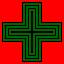
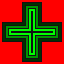
SHADER PHARMA

Changed region(s): [[0.0312, 0.0312, 0.9688, 0.9688]]

diff --git a/src/graphical_object.rs b/src/graphical_object.rs
@@ -1,3 +1,5 @@
+use std::time::{SystemTime, Duration};
+
 use miniquad::{
     Bindings, Buffer, BufferLayout, BufferType, Context, Pipeline, Shader, Texture,
     VertexAttribute, VertexFormat, TextureParams, ShaderMeta, UniformBlockLayout, UniformDesc, UniformType,
@@ -22,6 +24,7 @@ pub struct GraphicalObject {
     y_offset: f32,
     bindings: Bindings,
     pipeline: Pipeline,
+    time: SystemTime
 }
 impl GraphicalObject {
     pub fn rotate(&mut self, ctx: &mut Context, rotation: ROTATION)
@@ -32,6 +35,8 @@ impl GraphicalObject {
     }
 
     pub fn draw(&mut self, ctx: &mut Context, x: f32, y: f32) {
+        let delta = self.time.elapsed().unwrap_or(Duration::from_secs(0)).as_secs_f32() % 2.;
+        let ratio = delta/2.;
         ctx.apply_pipeline(&self.pipeline);
         ctx.apply_bindings(&self.bindings);
         ctx.apply_uniforms(&Uniforms {
@@ -39,11 +44,12 @@ impl GraphicalObject {
                 self.x_offset + (2. * x / (SCREEN_WIDTH/self.width)) - 1.,
                 self.y_offset + (2. * y / (SCREEN_HEIGHT/self.height)) - 1.,
             ),
+            time: ratio
         });
         ctx.draw(0, 6, 1);
     }
 
-    pub(crate) fn new(ctx: &mut Context, file: &[u8]) -> GraphicalObject 
+    pub(crate) fn new(ctx: &mut Context, file: &[u8], body: bool) -> GraphicalObject 
     { 
         let file = Decoder::new(file);
         let res = file.decode().unwrap();
@@ -60,6 +66,7 @@ impl GraphicalObject {
 
         let x_offset = widhtf / SCREEN_WIDTH;
         let y_offset = heightf / SCREEN_HEIGHT;
+        let now = SystemTime::now();
 
         GraphicalObject {
             width: widhtf,
@@ -67,7 +74,8 @@ impl GraphicalObject {
             x_offset,
             y_offset,
             bindings: init_bindings(ctx, data, width, height),
-            pipeline: init_pipeline(ctx)
+            pipeline: init_pipeline(ctx, body),
+            time: now
         }
     }       
 }
@@ -98,9 +106,14 @@ fn init_bindings(ctx: &mut Context, data: &[u8], width: u16, height: u16) -> Bin
     }
 }
 
-fn init_pipeline(ctx: &mut Context) -> Pipeline {    
+fn init_pipeline(ctx: &mut Context, body: bool) -> Pipeline {    
     let vertex_shader:&str = std::str::from_utf8(include_bytes!("./shaders/shader.vs")).unwrap();
-    let fragment_shader:&str = std::str::from_utf8(include_bytes!("./shaders/shader.fs")).unwrap();
+    let mut fragment_shader = std::str::from_utf8(include_bytes!("./shaders/shader.fs")).unwrap();
+    if body
+    {
+        fragment_shader = std::str::from_utf8(include_bytes!("./shaders/body_shader.fs")).unwrap();
+    }
+        
     let shader = Shader::new(ctx, vertex_shader, fragment_shader, meta()).unwrap();
 
     Pipeline::new(
@@ -159,7 +172,8 @@ fn get_rot_vertex(rotation: ROTATION, width: f32, height: f32) -> [Vertex; 4] {
 #[repr(C)]
 pub struct Uniforms 
 {
-    pub offset: (f32, f32)
+    pub offset: (f32, f32),
+    pub time: f32
 }
 
 #[repr(C)]
@@ -177,7 +191,7 @@ pub fn meta() -> ShaderMeta {
     ShaderMeta {
         images: vec!["tex".to_string()],
         uniforms: UniformBlockLayout {
-            uniforms: vec![UniformDesc::new("offset", UniformType::Float2)],
+            uniforms: vec![UniformDesc::new("offset", UniformType::Float2), UniformDesc::new("time", UniformType::Float1)],
         },
     }
 }

diff --git a/src/game/snake.rs b/src/game/snake.rs
@@ -46,8 +46,8 @@ impl Snake {
             last_move_start:SystemTime::now(),
             
             //ForDrawing
-            body: GraphicalObject::new(ctx, SNAKE_BODY),
-            head: GraphicalObject::new(ctx, SNAKE_HEAD)
+            body: GraphicalObject::new(ctx, SNAKE_BODY, true),
+            head: GraphicalObject::new(ctx, SNAKE_HEAD, false)
         }
     }
 

diff --git a/src/game/bonus.rs b/src/game/bonus.rs
@@ -14,7 +14,7 @@ impl Bonus {
         Bonus 
         {
             pos: Pos { x: 0, y: 0 },
-            graphic: GraphicalObject::new(ctx, SNAKE_BONUS) 
+            graphic: GraphicalObject::new(ctx, SNAKE_BONUS, false) 
         }
     }
     

diff --git a/src/game/background.rs b/src/game/background.rs
@@ -9,7 +9,7 @@ impl Background {
     {
         Background 
         {
-            graphic: GraphicalObject::new(ctx, SNAKE_BG) 
+            graphic: GraphicalObject::new(ctx, SNAKE_BG, false) 
         }
     }
     
